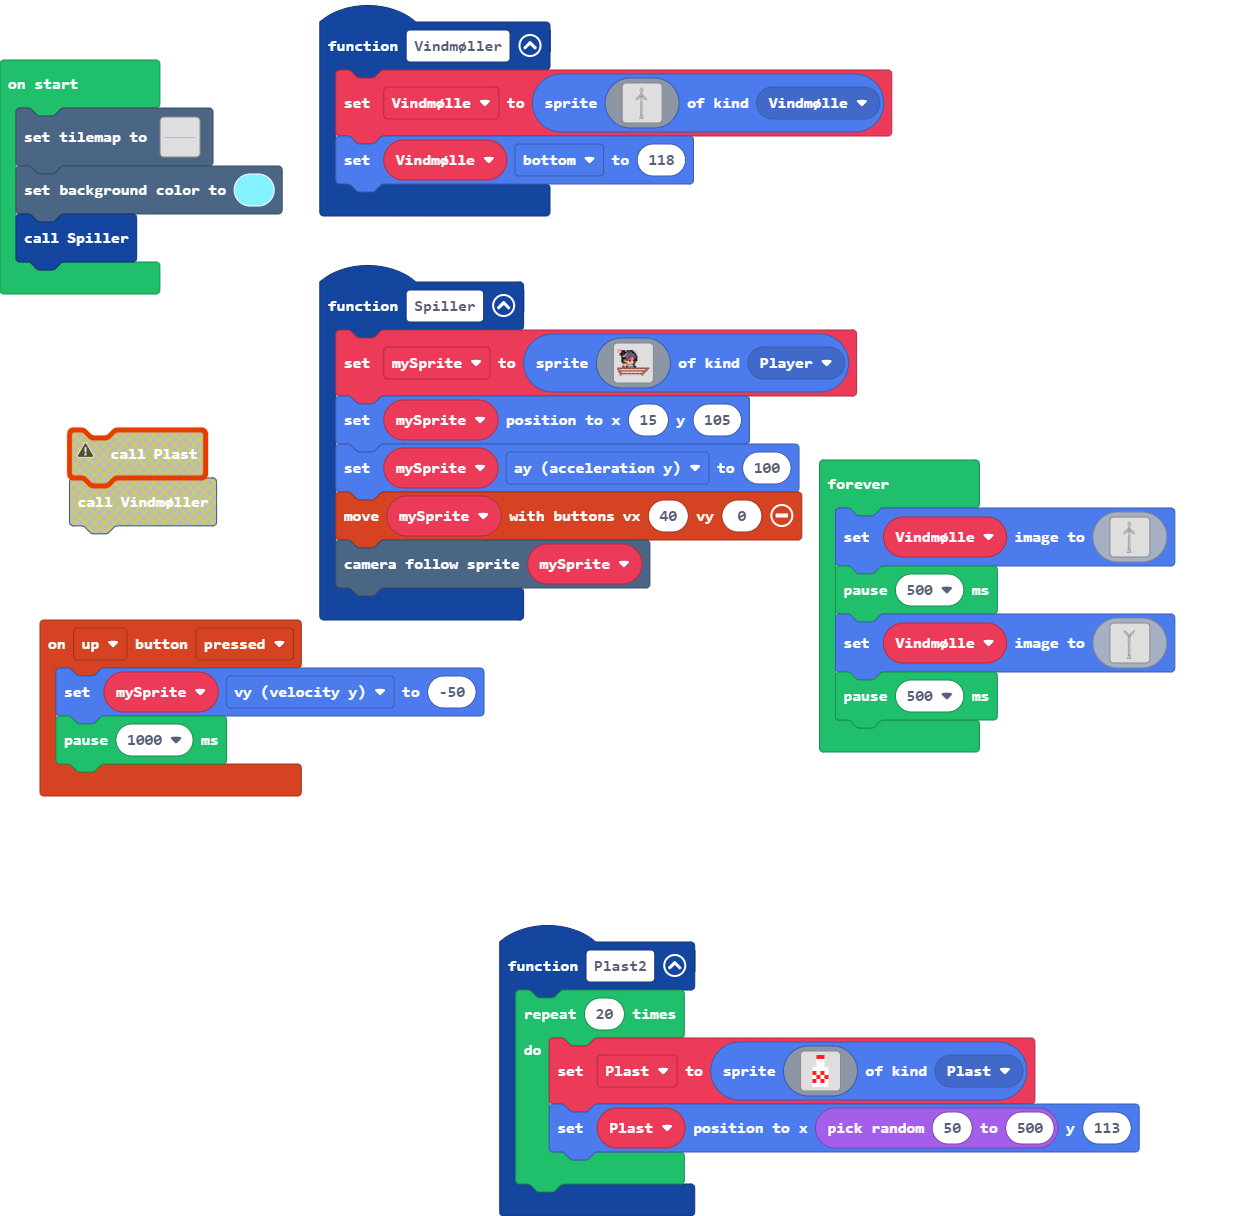
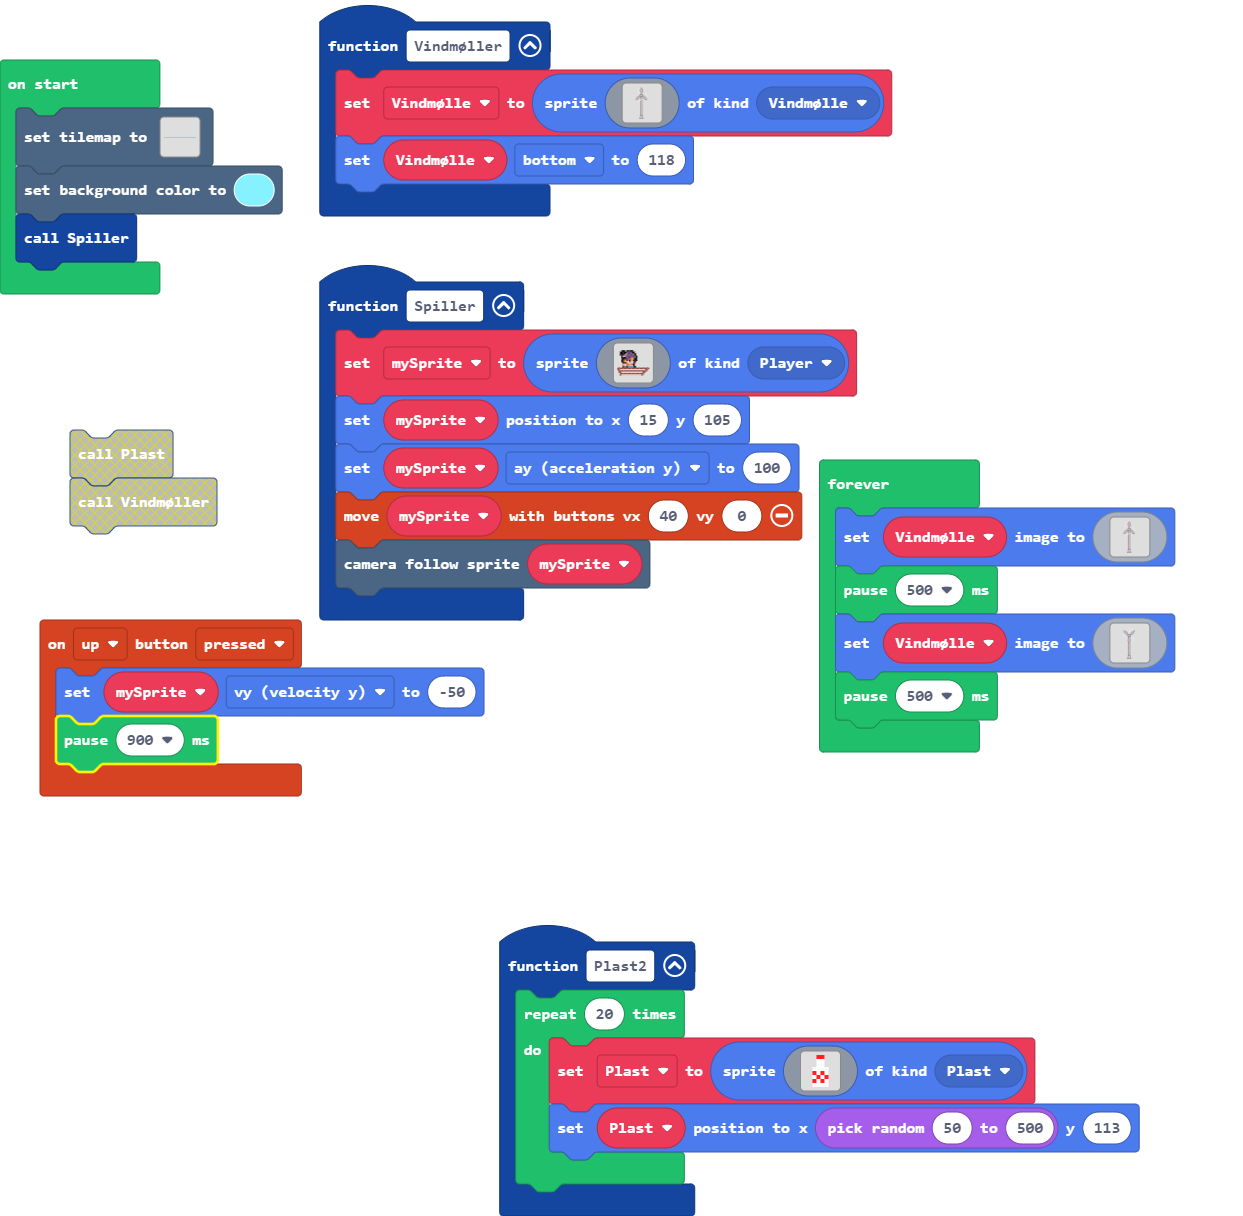
Update main.blocks, main.ts

Changed region(s): [[0.0306, 0.3438, 0.1834, 0.4375], [0.0611, 0.5625, 0.1834, 0.6562], [0.0306, 0.5938, 0.0611, 0.625]]

diff --git a/main.ts b/main.ts
@@ -19,7 +19,7 @@ function Plast2 () {
 }
 controller.up.onEvent(ControllerButtonEvent.Pressed, function () {
     mySprite.vy = -50
-    pause(1000)
+    pause(900)
 })
 function Vindmøller () {
     Vindmølle = sprites.create(img`
